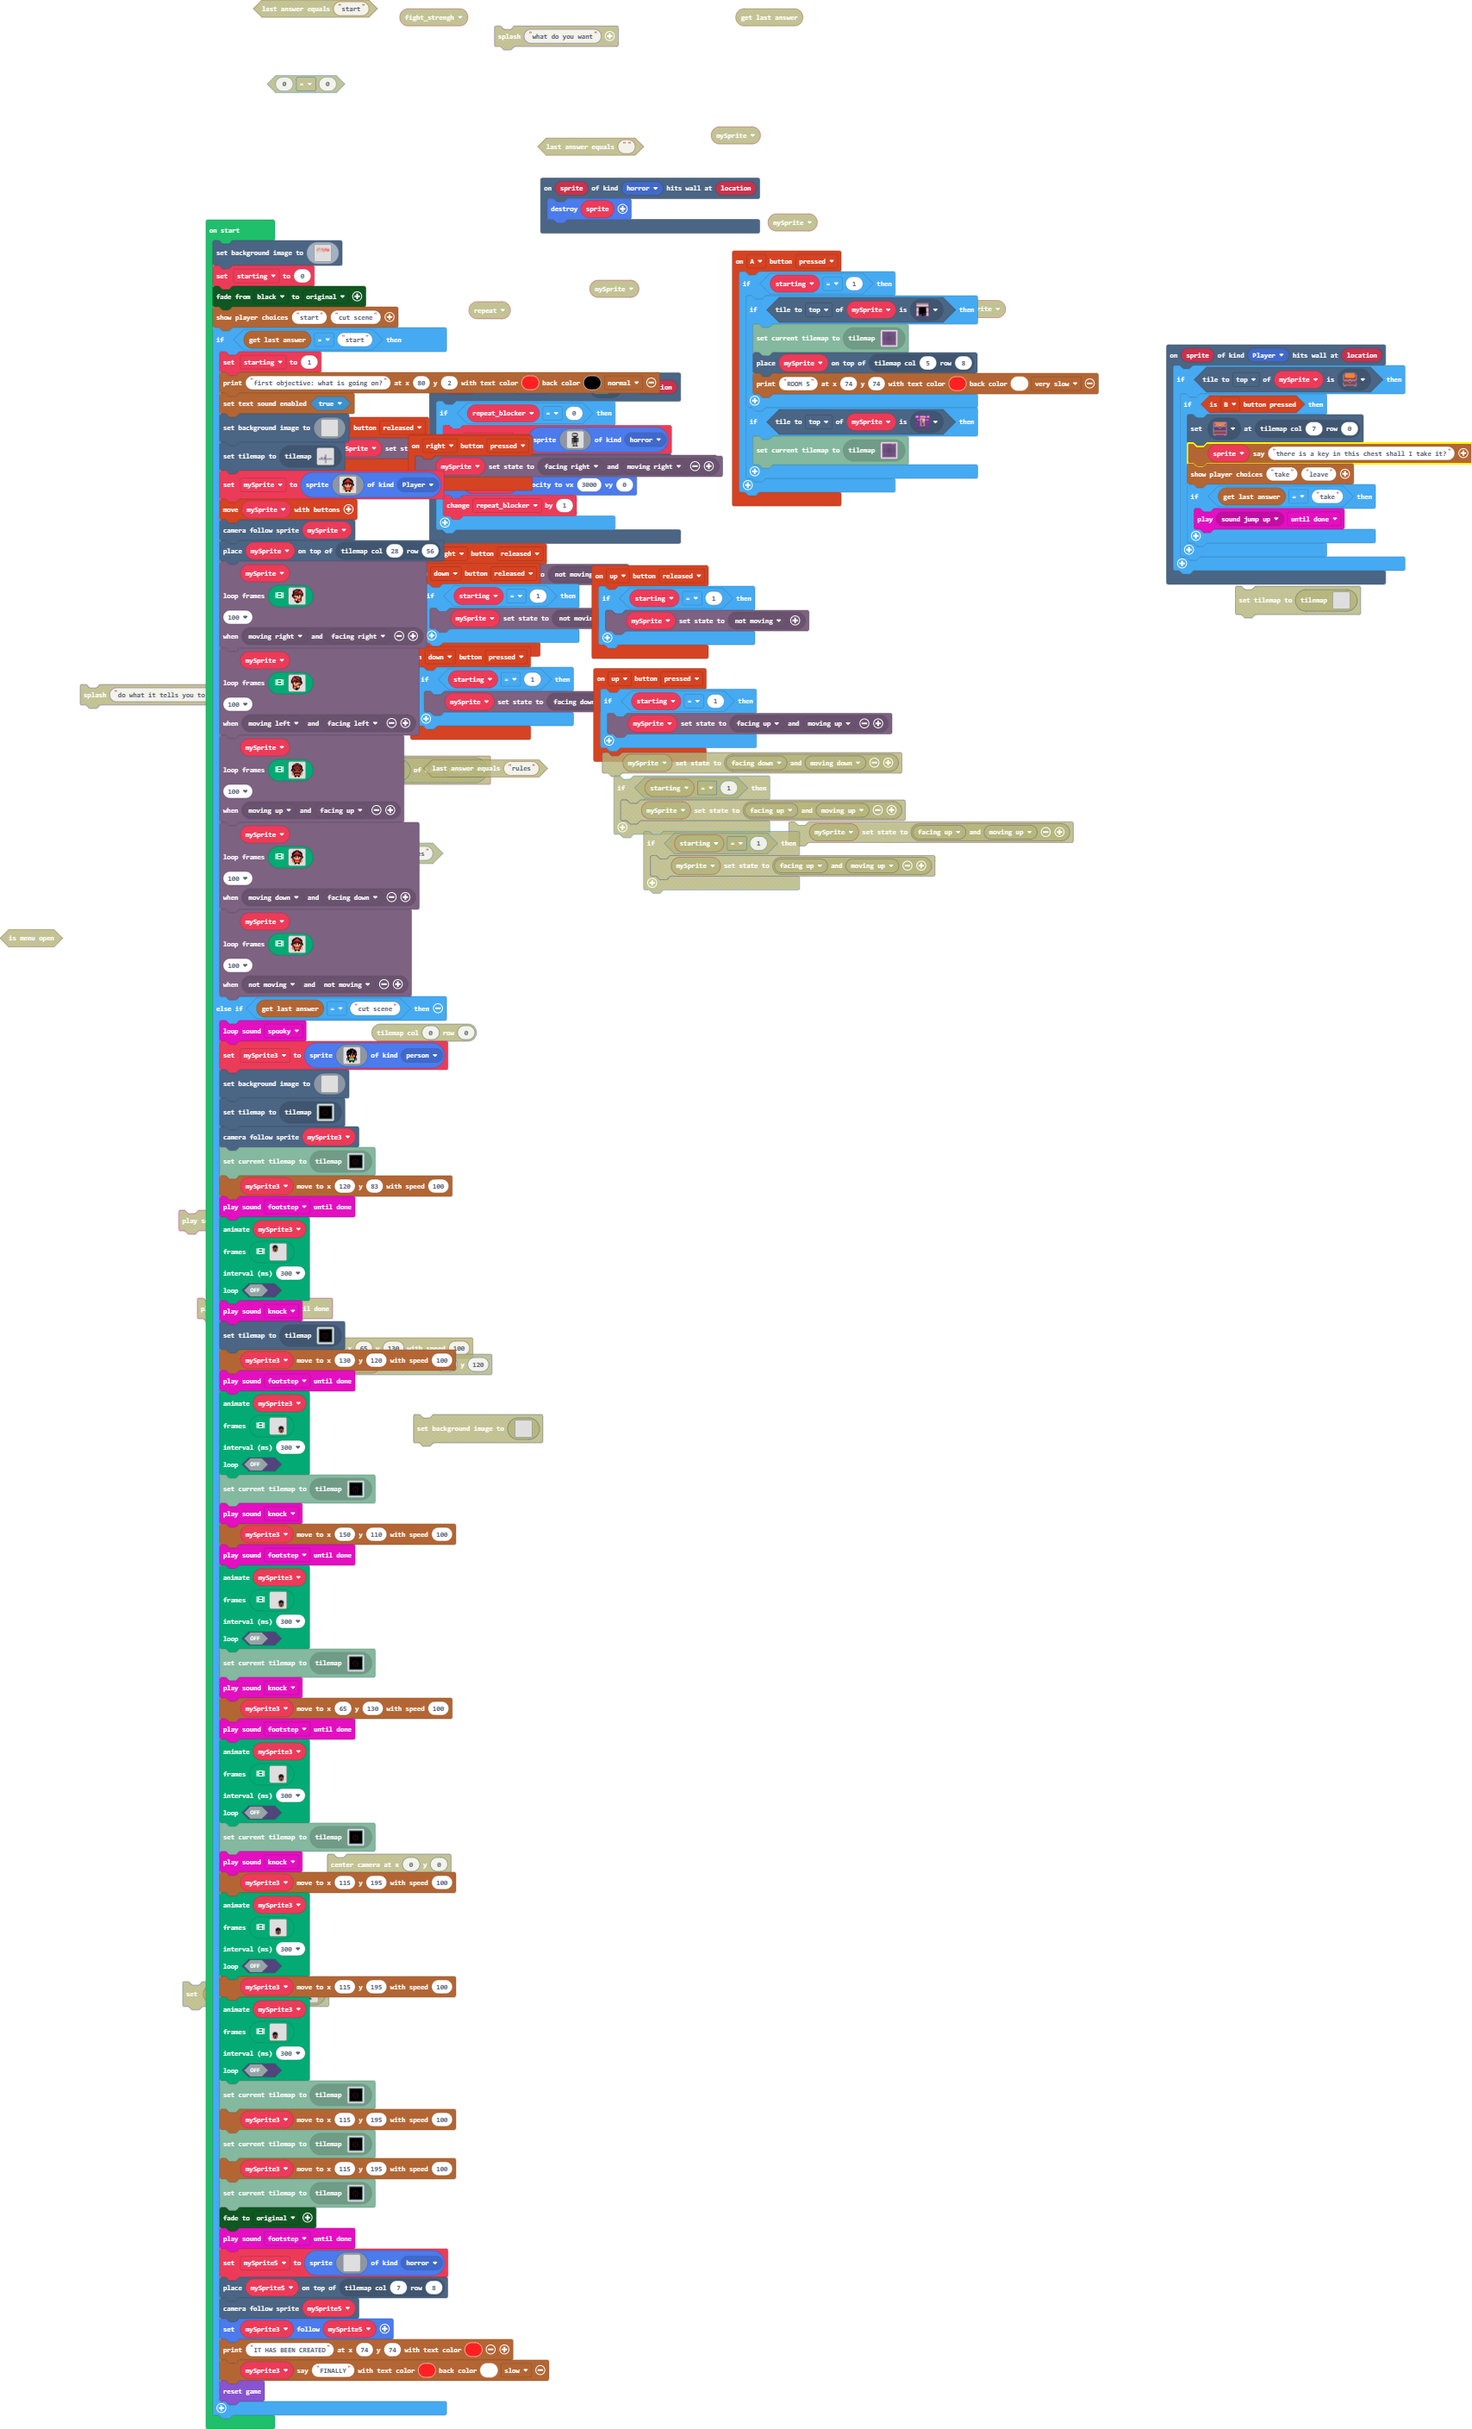
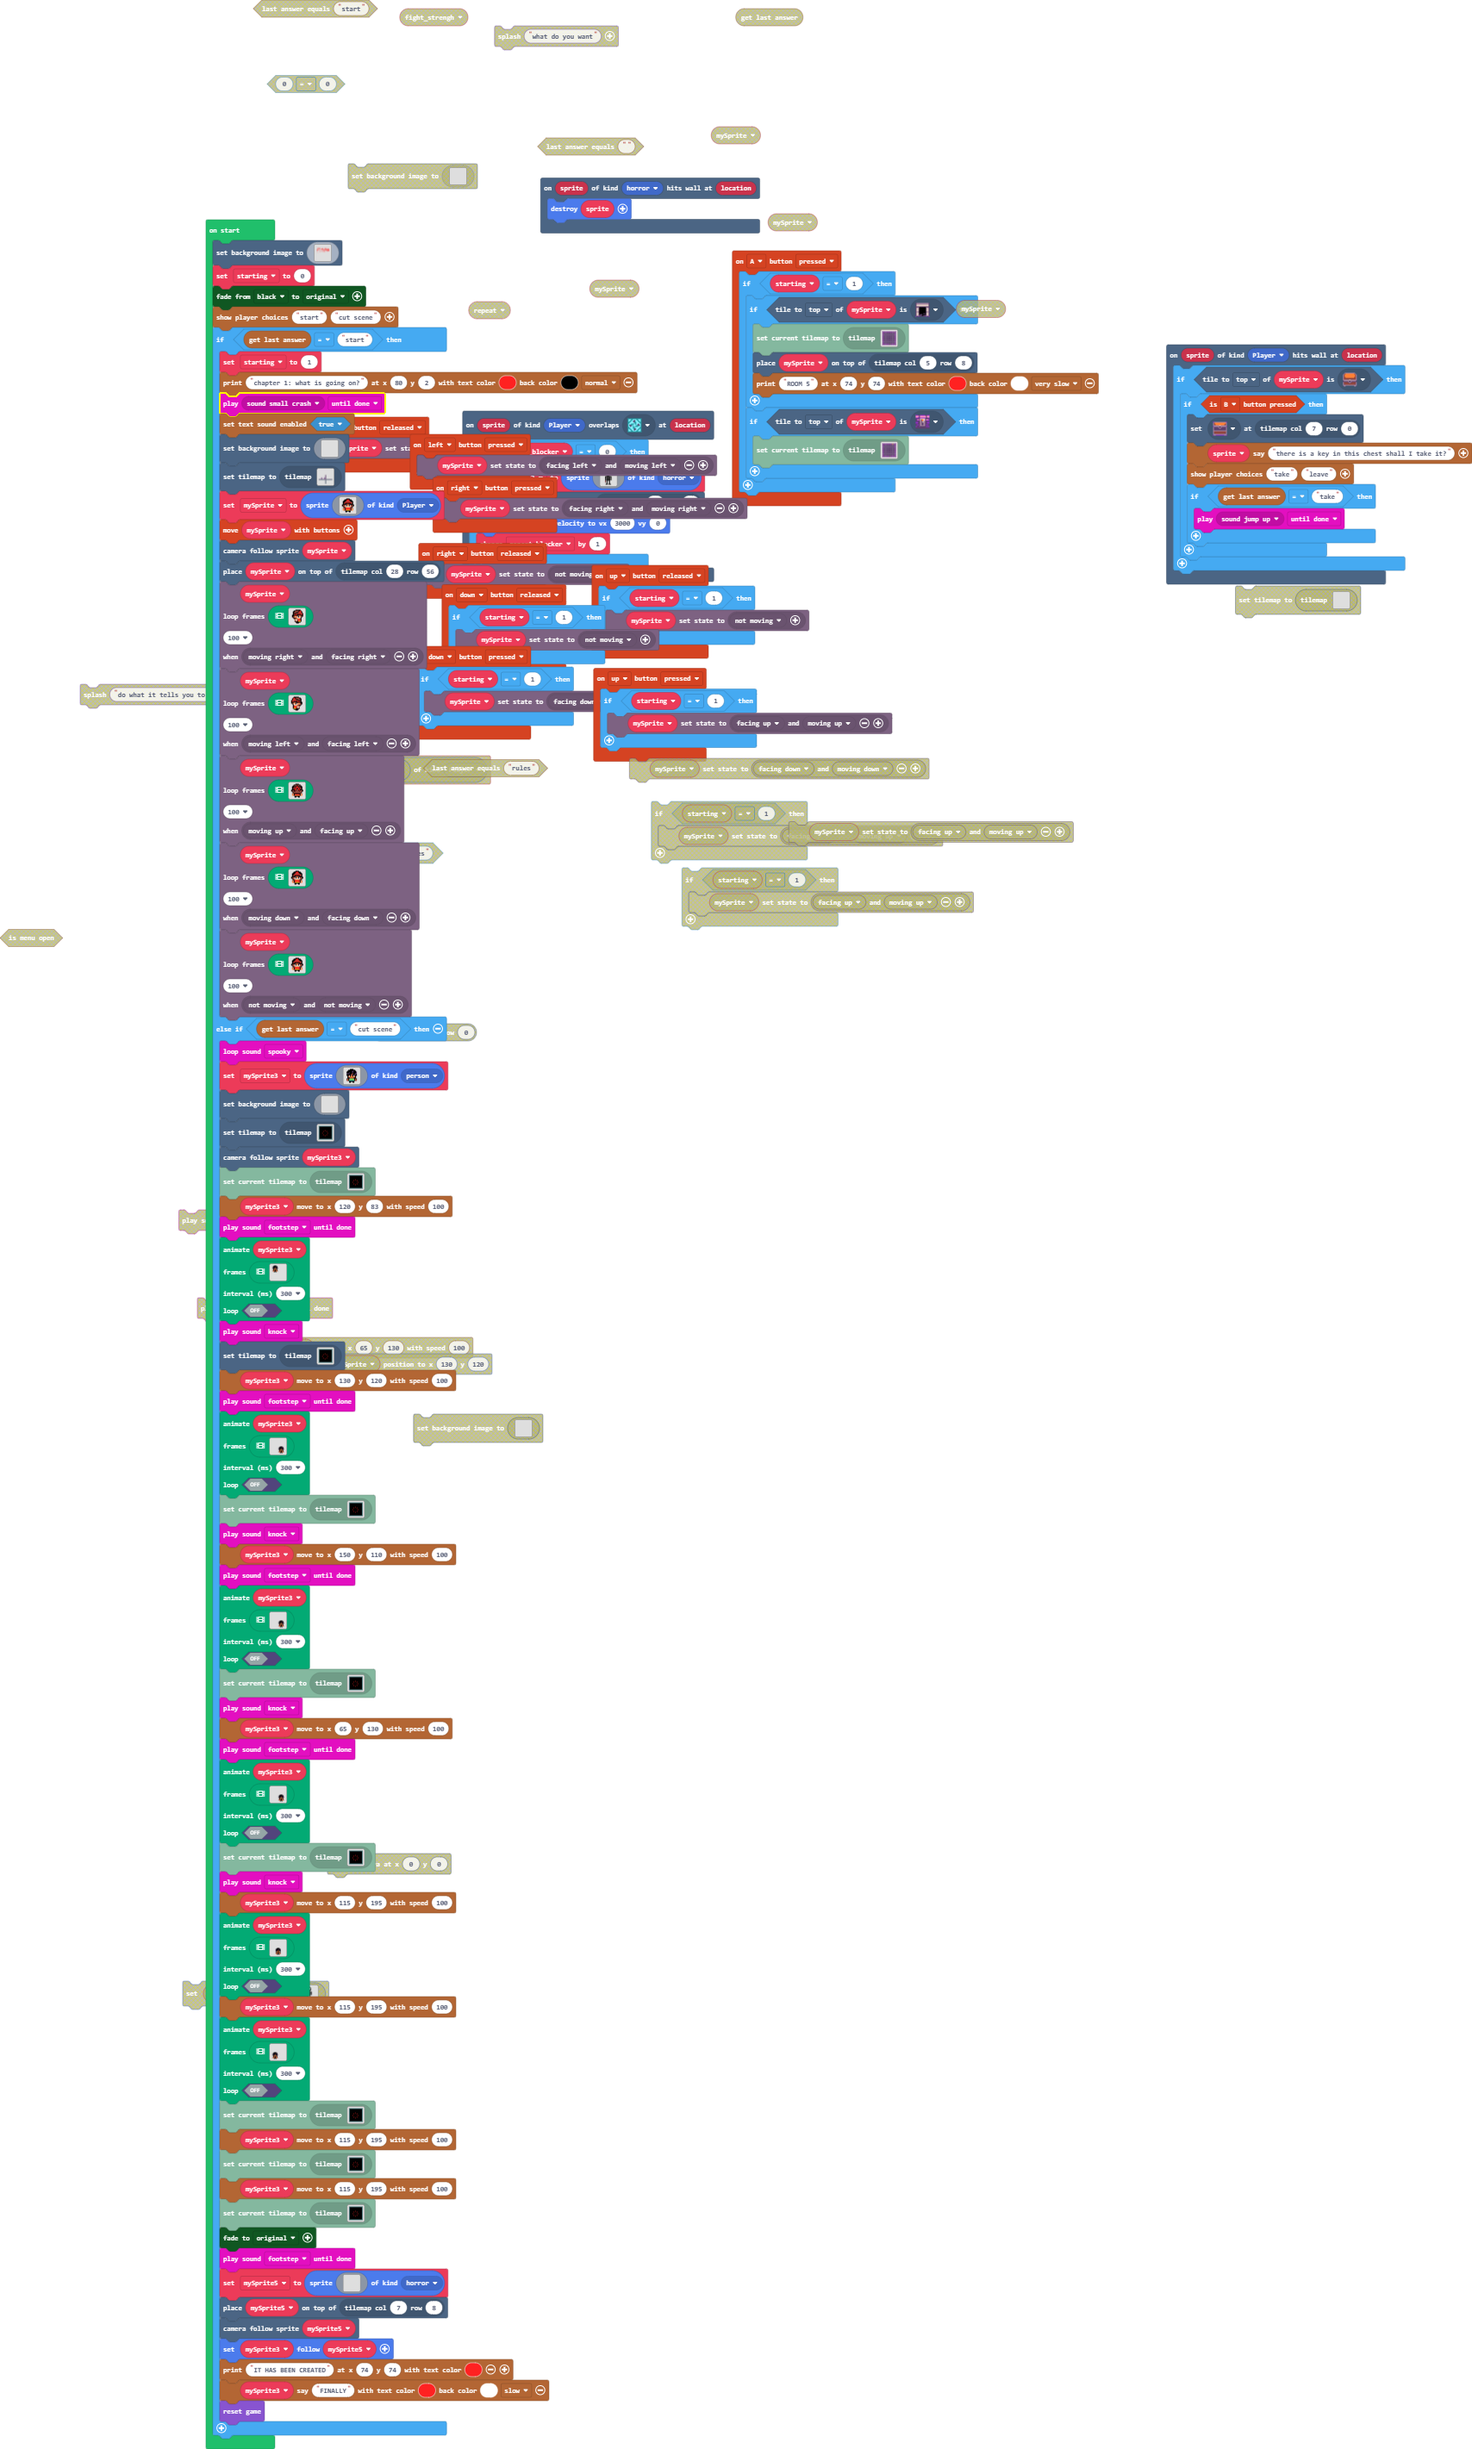
Update pxt.json, main.blocks, main.ts

Changed region(s): [[0.0621, 0.0312, 0.7447, 0.9993], [0.7758, 0.1249, 1.0, 0.2498], [0.0, 0.3747, 0.031, 0.406]]

diff --git a/main.ts b/main.ts
@@ -124,7 +124,7 @@ scene.setBackgroundImage(img`
     .................222222................2222..........................2222222............222.2.............222..2.222222.........................................
     ................2222222.................2222.........................2222222............222.2.............222..222222.2........2222.........22222222............
     ..................222222................2222......................222222.222............222.2.............222.222222.2.......222..222222....222222222...........
-    ....................222.2...............2222.....................22222222222............22222.............2222222222.2.......22222222222....2222222222..........
+    ....................222.2...............2222.....................22222222222............22222.............2222212222.2.......22222222222....2222222222..........
     ....................22222...............2222.....................222222222222...........2222.............2222222222.22.......22222222222...222...22222..........
     ....................22222...............2222.....................2222....22222..........2222.............222222222..2........222...........222....22222.........
     ....................22222................2222...................2222.....22222..........222...............2222222...2........2222..........222...2.2222.........
@@ -239,7 +239,8 @@ color.startFade(color.Black, color.originalPalette)
 story.showPlayerChoices("start", "cut scene")
 if (story.getLastAnswer() == "start") {
     starting = 1
-    story.printText("first objective: what is going on?", 80, 2, 2, 15, story.TextSpeed.Normal)
+    story.printText("chapter 1: what is going on?", 80, 2, 2, 15, story.TextSpeed.Normal)
+    music.play(music.melodyPlayable(music.smallCrash), music.PlaybackMode.UntilDone)
     story.setSoundEnabled(true)
     scene.setBackgroundImage(img`
         ................................................................................................................................................................
